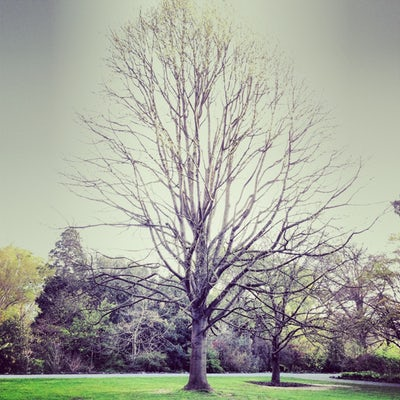
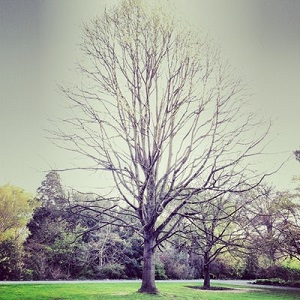
wording added to sections

diff --git a/index.html b/index.html
@@ -70,17 +70,57 @@
       </div>
 
       <!--Skills-->
-      
+      <section id="skills">
+        <h1>Skilled In</h1>
+        <br>
+        <br>
+        <br>
+        <br>
+        <br>
+        <br>
+        <br>
+      </section>
+
       <!--About Section-->
-
-
+      <section id="about">
+        <h1>About</h1>
+        <br>
+        <br>
+        <br>
+        <br>
+        <br>
+        <br>
+        <br>
+        <br>        
+      </section>    
 
       <!--Project Section-->
+      <section id="project">
+        <h1>Projects From Eleven Fifty Academy</h1>
+        <br>
+        <br>
+        <br>
+        <br>
+        <br>
+        <br>
+        <br>
+      </section>
 
       <!--Contact Section-->
-        <section></section>
+      <section id="contact">
+        <h1>Contact Options</h1>
+        <br>
+        <br>
+        <br>
+        <br>
+        <br>
+        <br>
+        <br>
+      </section>
 
       <!--Footer Section-->
+      <section id="footer">
+      </section>
 
 
 

diff --git a/css/body.css b/css/body.css
@@ -12,7 +12,7 @@ color: rgb(179, 109, 77);
 }
 
 body, html {
-    background: url("../assets/BareBrownTree.jpg") fixed no-repeat;
+    background: url("../assets/BareBrownTree.jpg")  no-repeat;
     background-position: center center;
     background-size: cover;
 }
